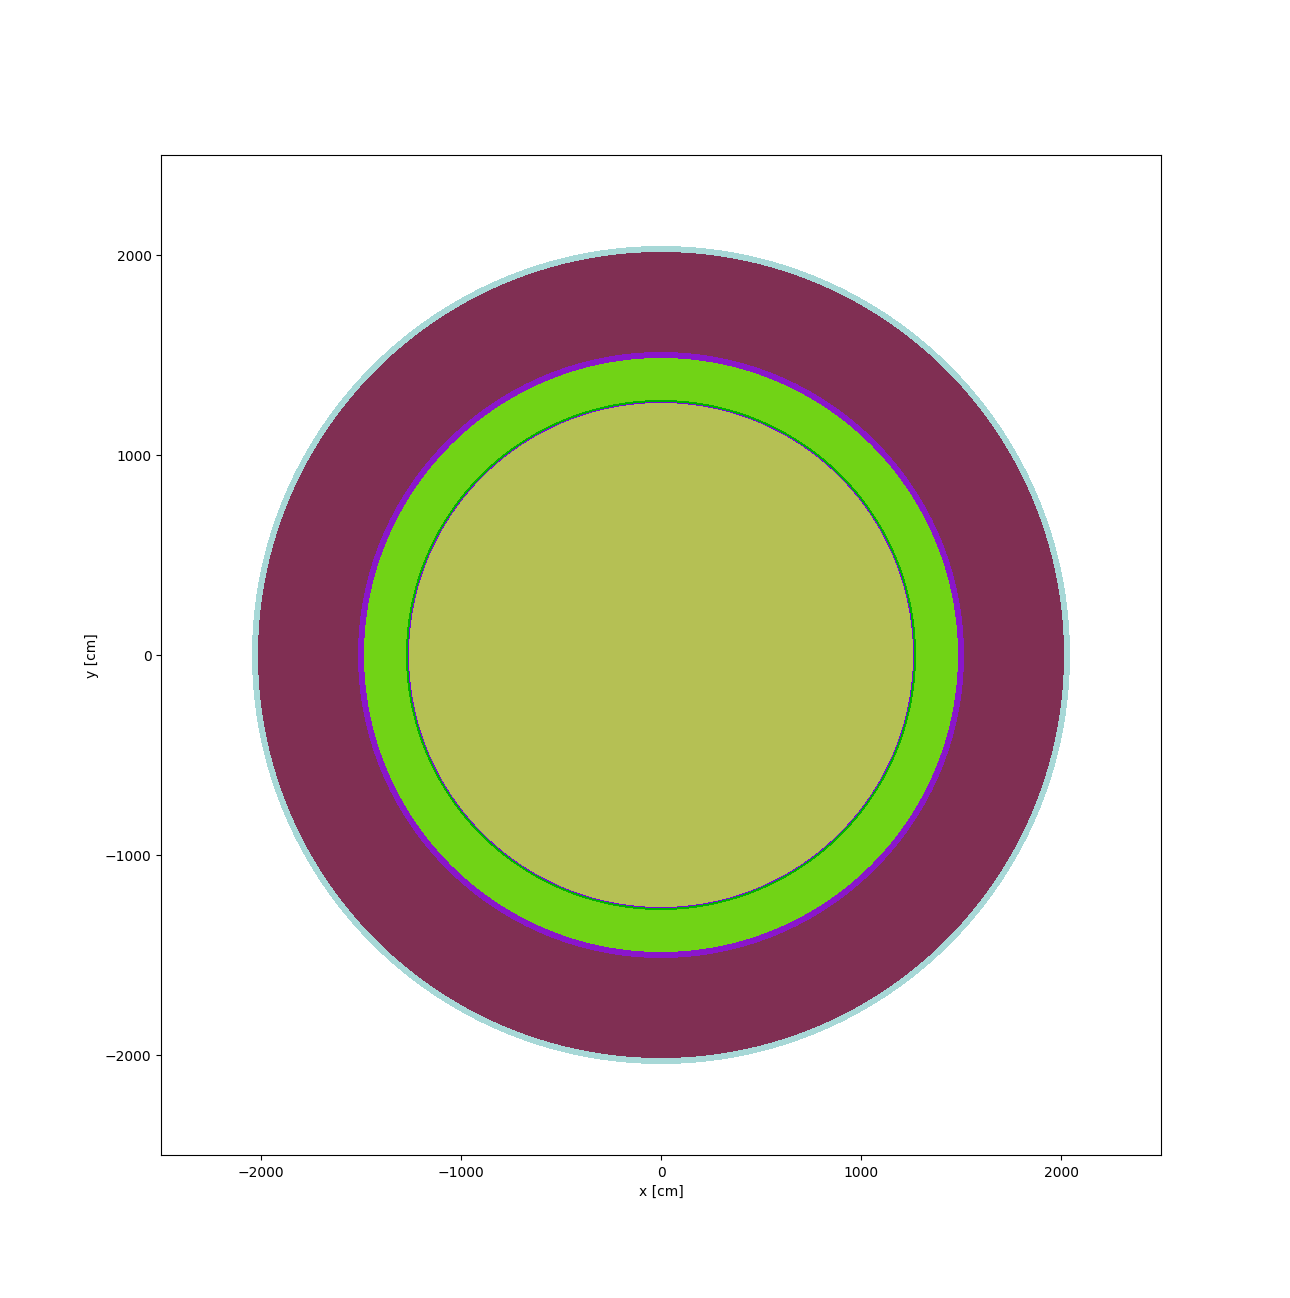
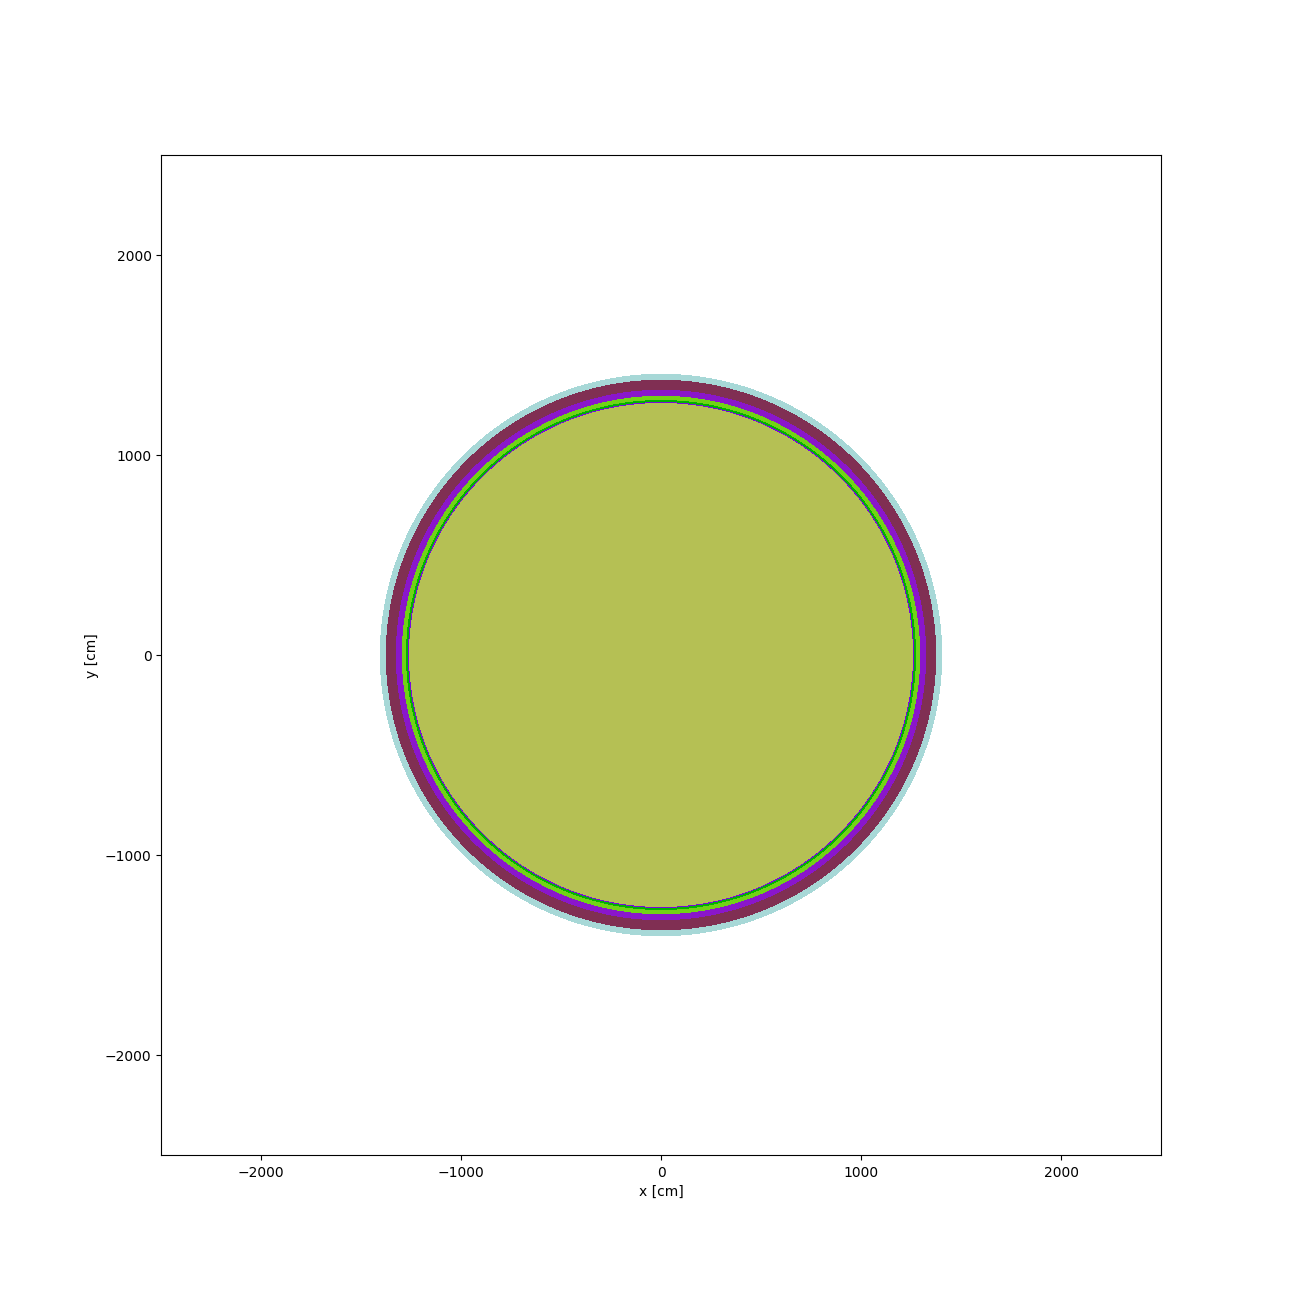
Minor changes

Changed region(s): [[0.186, 0.1849, 0.8372, 0.832]]

diff --git a/Code/workspace/src/magmirror.py b/Code/workspace/src/magmirror.py
@@ -9,9 +9,9 @@ layers_thicknesses = [
     ("source + gap", 1260), #1260 thickness
     ("first wall", 5),
     ("structural1", 10),
-    ("channel", 210), #design point chosen for chrysopoeia paper
+    ("channel", 21), #design point chosen for chrysopoeia paper
     ("structural2", 30), #30
-    ("blanket", 500), #very rough estimate from design point of paper
+    ("blanket", 50), #very rough estimate from design point of paper
     ("blanketouter", 30)
 ]
 
@@ -192,6 +192,7 @@ n_source.energy = openmc.stats.Discrete([14.1e6], [1.0]) #14.1MeV neutrons only
 #sourceplot.write_html("./n_source_plotted.html")
 
 surface_filter = openmc.SurfaceFilter(bins=[cylinders[-1]])
+surface_filter.direction = 'both'
 n_filter = openmc.ParticleFilter(['neutron'])
 
 surface_tally = openmc.Tally(name="Neutron flux at outer cylinder")
@@ -208,8 +209,8 @@ tallies.append(flux_tally)
 
 settings = openmc.Settings()
 settings.source = n_source
-settings.batches = 10
-settings.particles = 1000
+settings.batches = 20
+settings.particles = 10000
 settings.run_mode = 'fixed source'
 
 model = openmc.Model(geometry=geometry, settings=settings, tallies=tallies)
@@ -217,8 +218,6 @@ model = openmc.Model(geometry=geometry, settings=settings, tallies=tallies)
 results_sp = model.run()
 
 results = openmc.StatePoint(results_sp)
-for t in results.tallies.values():
-    print(t.name)
 
 #surface_tally_results = results.get_tally("Neutron flux at outer cylinder")
 #flux_tally_results = results.get_tally("Flux in last shielding cell")
